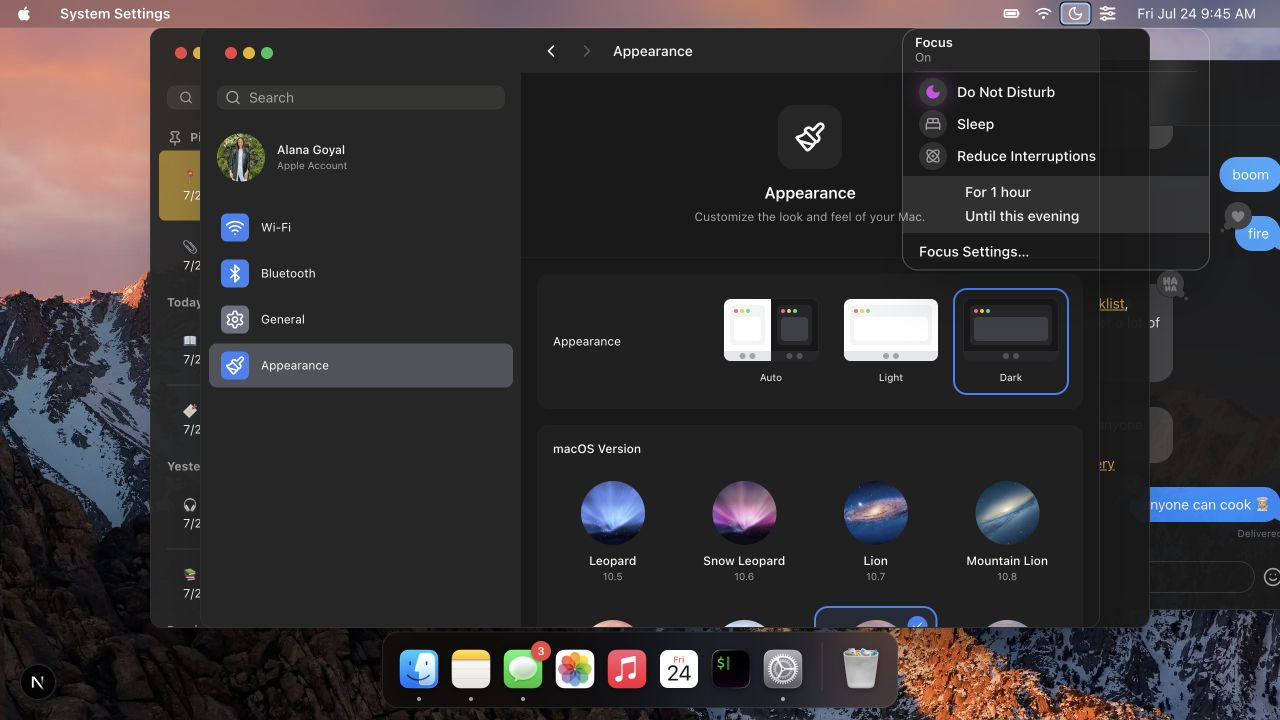
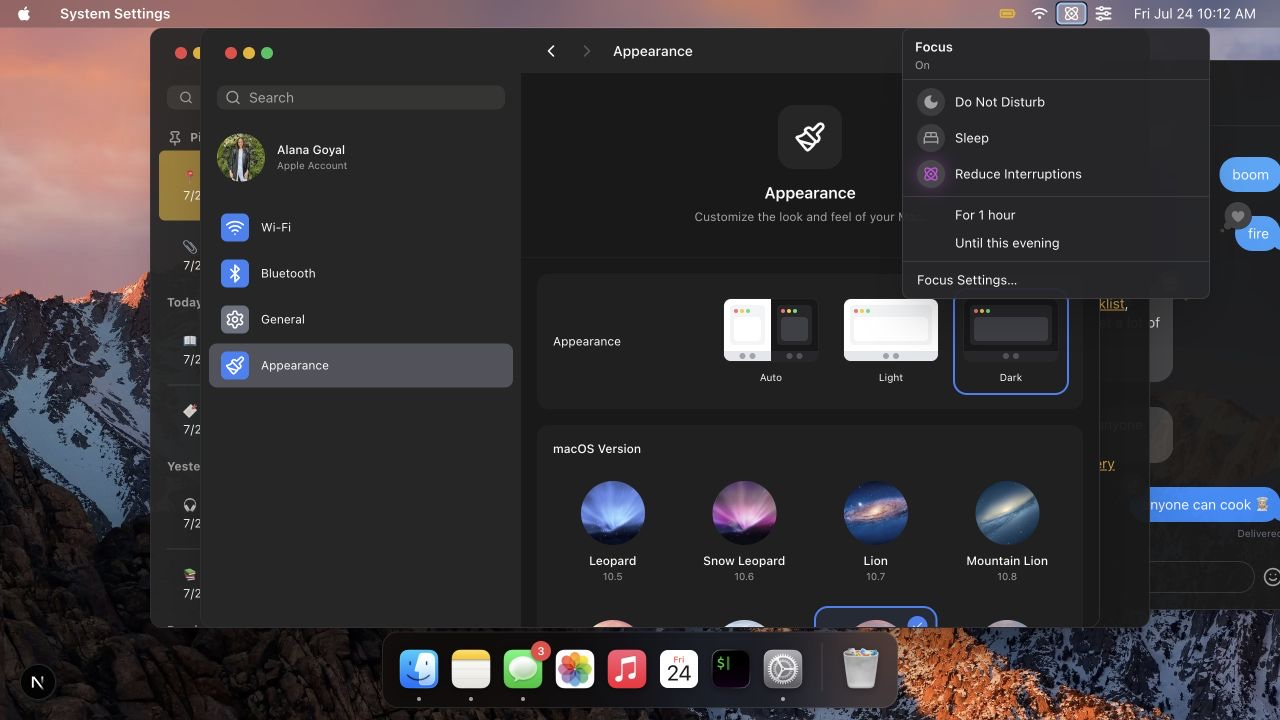
Match Focus menu to site styling

diff --git a/components/desktop/focus-menu.tsx b/components/desktop/focus-menu.tsx
@@ -127,16 +127,16 @@ export function FocusMenu({
       ref={menuRef}
       role="menu"
       aria-label="Focus"
-      className="absolute right-[70px] top-7 z-[70] w-[308px] overflow-hidden rounded-2xl border border-black/20 bg-white/92 text-foreground shadow-2xl backdrop-blur-2xl dark:border-white/25 dark:bg-zinc-800/92"
+      className="absolute right-[70px] top-7 z-[70] w-[308px] overflow-hidden rounded-lg border border-black/10 bg-white/95 py-1 text-foreground shadow-2xl backdrop-blur-xl dark:border-white/10 dark:bg-zinc-800/95"
     >
-      <div className="px-3 py-1.5">
-        <p className="text-[13px] font-semibold leading-[15px]">Focus</p>
-        <p className="text-xs leading-[15px] text-muted-foreground">On</p>
+      <div className="px-3 pb-0.5 pt-1">
+        <p className="text-[13px] font-semibold leading-5">Focus</p>
+        <p className="text-[11px] leading-4 text-muted-foreground">On</p>
       </div>
 
-      <div className="mx-3 border-t border-black/10 dark:border-white/10" />
+      <div className="my-1 border-t border-black/10 dark:border-white/10" />
 
-      <div className="px-2 py-1">
+      <div>
         {FOCUS_MODES.map(([mode, config]) => {
           const isActive = focusMode === mode;
           const Icon = config.icon;
@@ -155,14 +155,14 @@ export function FocusMenu({
                   setFocusMode(mode);
                 }
               }}
-              className="flex w-full items-center gap-2.5 rounded-lg px-2 py-0.5 text-left transition-colors can-hover:hover:bg-black/5 dark:can-hover:hover:bg-white/10"
+              className="group mx-1.5 flex w-[calc(100%_-_0.75rem)] items-center gap-2.5 rounded-[5px] px-2 py-1 text-left transition-colors can-hover:hover:bg-[#0A7CFF] can-hover:hover:text-white"
             >
               <span
                 className={cn(
                   "flex h-7 w-7 shrink-0 items-center justify-center rounded-full",
                   isActive
-                    ? "bg-black/10 text-fuchsia-500 shadow-[0_0_16px_rgba(217,70,239,0.35)] dark:bg-white/15"
-                    : "bg-black/10 text-muted-foreground dark:bg-white/10"
+                    ? "bg-black/10 text-fuchsia-500 shadow-[0_0_16px_rgba(217,70,239,0.35)] can-hover:group-hover:bg-white/20 can-hover:group-hover:text-white dark:bg-white/15"
+                    : "bg-black/10 text-muted-foreground can-hover:group-hover:bg-white/20 can-hover:group-hover:text-white dark:bg-white/10"
                 )}
               >
                 <Icon
@@ -173,41 +173,43 @@ export function FocusMenu({
                   )}
                 />
               </span>
-              <span className="text-sm font-medium">{config.name}</span>
+              <span className="text-[13px] leading-5">{config.name}</span>
             </button>
           );
         })}
       </div>
 
-      <div className="bg-black/[0.07] px-[54px] py-1 dark:bg-white/10">
+      <div className="my-1 border-t border-black/10 dark:border-white/10" />
+
+      <div>
         <button
           role="menuitem"
           onClick={() => scheduleFocusEnd(Date.now() + 60 * 60 * 1000)}
-          className="block w-full rounded px-2 py-0.5 text-left text-sm font-medium transition-colors can-hover:hover:bg-black/5 dark:can-hover:hover:bg-white/10"
+          className="mx-1.5 block w-[calc(100%_-_0.75rem)] rounded-[5px] py-1 pl-[46px] pr-2 text-left text-[13px] leading-5 transition-colors can-hover:hover:bg-[#0A7CFF] can-hover:hover:text-white"
         >
           For 1 hour
         </button>
         <button
           role="menuitem"
           onClick={() => scheduleFocusEnd(getEveningEndTime())}
-          className="block w-full rounded px-2 py-0.5 text-left text-sm font-medium transition-colors can-hover:hover:bg-black/5 dark:can-hover:hover:bg-white/10"
+          className="mx-1.5 block w-[calc(100%_-_0.75rem)] rounded-[5px] py-1 pl-[46px] pr-2 text-left text-[13px] leading-5 transition-colors can-hover:hover:bg-[#0A7CFF] can-hover:hover:text-white"
         >
           Until this evening
         </button>
       </div>
 
-      <div className="border-t border-black/10 px-2 py-1.5 dark:border-white/10">
-        <button
-          role="menuitem"
-          onClick={() => {
-            onOpenSettings?.();
-            onClose();
-          }}
-          className="w-full rounded-lg px-2 py-0.5 text-left text-sm font-medium transition-colors can-hover:hover:bg-black/5 dark:can-hover:hover:bg-white/10"
-        >
-          Focus Settings&hellip;
-        </button>
-      </div>
+      <div className="my-1 border-t border-black/10 dark:border-white/10" />
+
+      <button
+        role="menuitem"
+        onClick={() => {
+          onOpenSettings?.();
+          onClose();
+        }}
+        className="mx-1.5 w-[calc(100%_-_0.75rem)] rounded-[5px] px-2 py-1 text-left text-[13px] leading-5 transition-colors can-hover:hover:bg-[#0A7CFF] can-hover:hover:text-white"
+      >
+        Focus Settings&hellip;
+      </button>
     </div>
   );
 }
